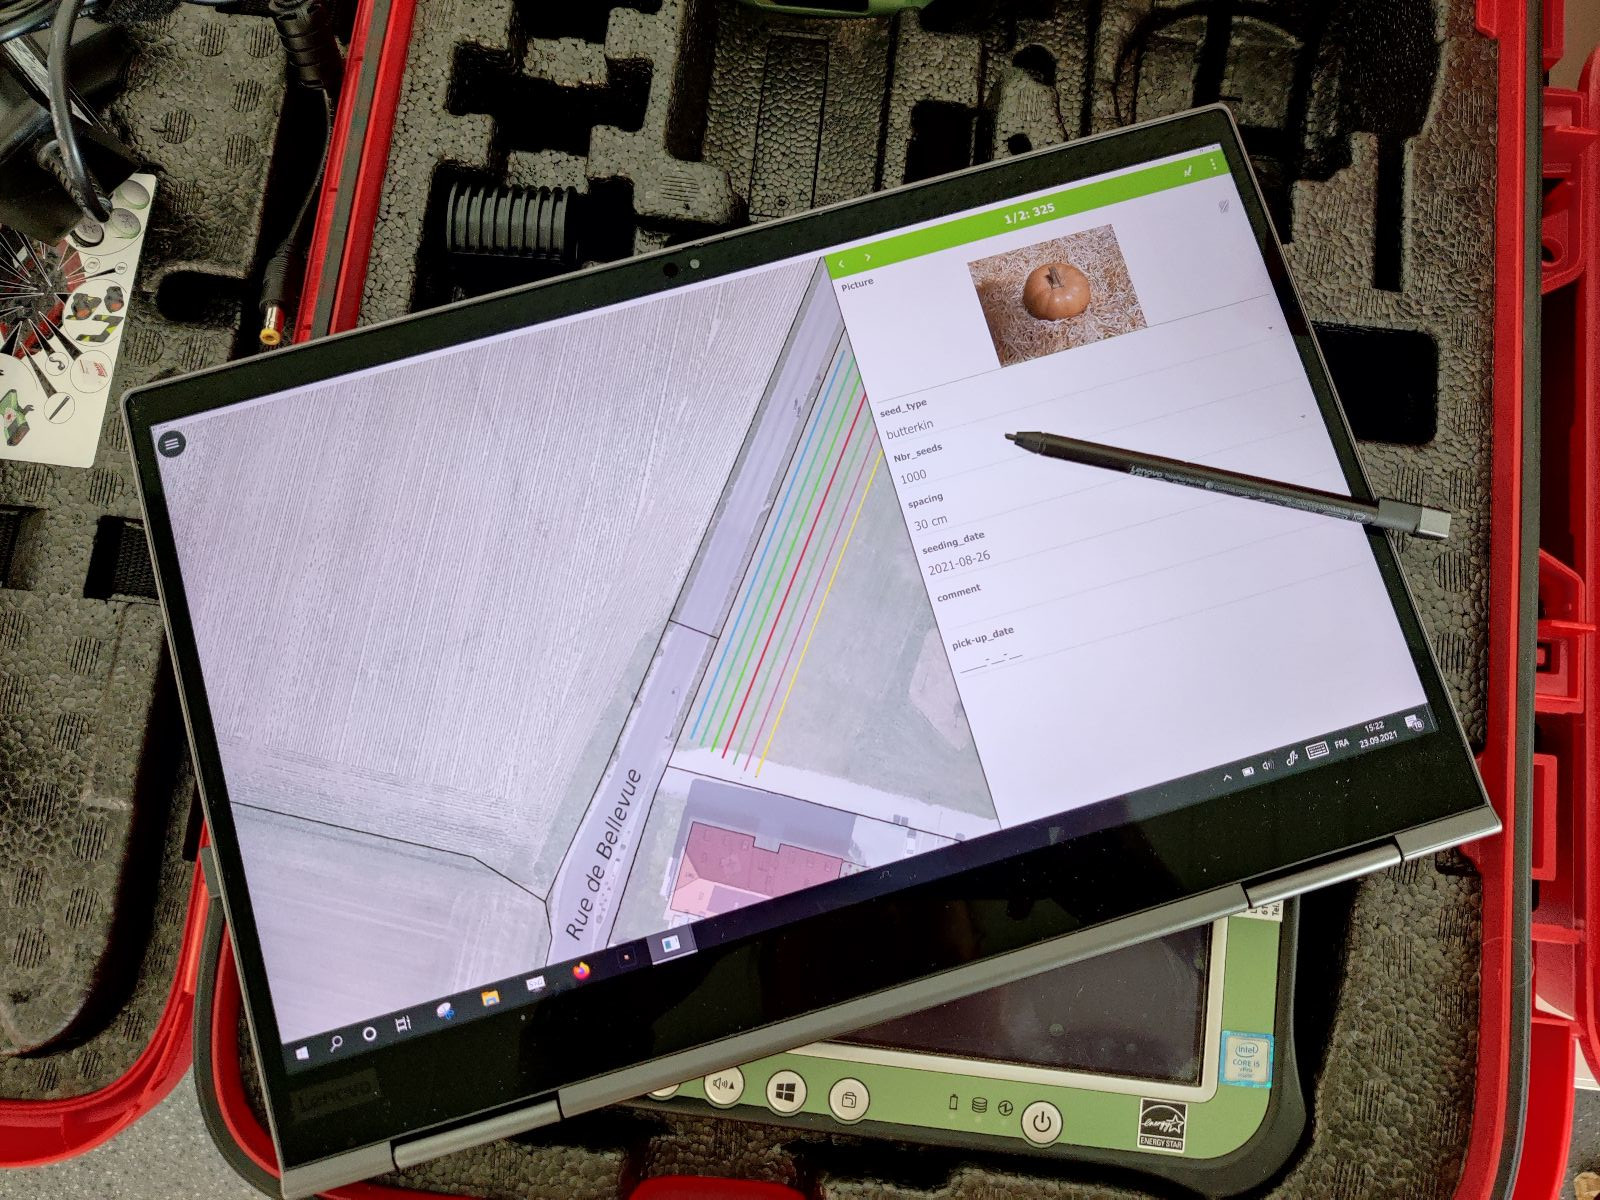
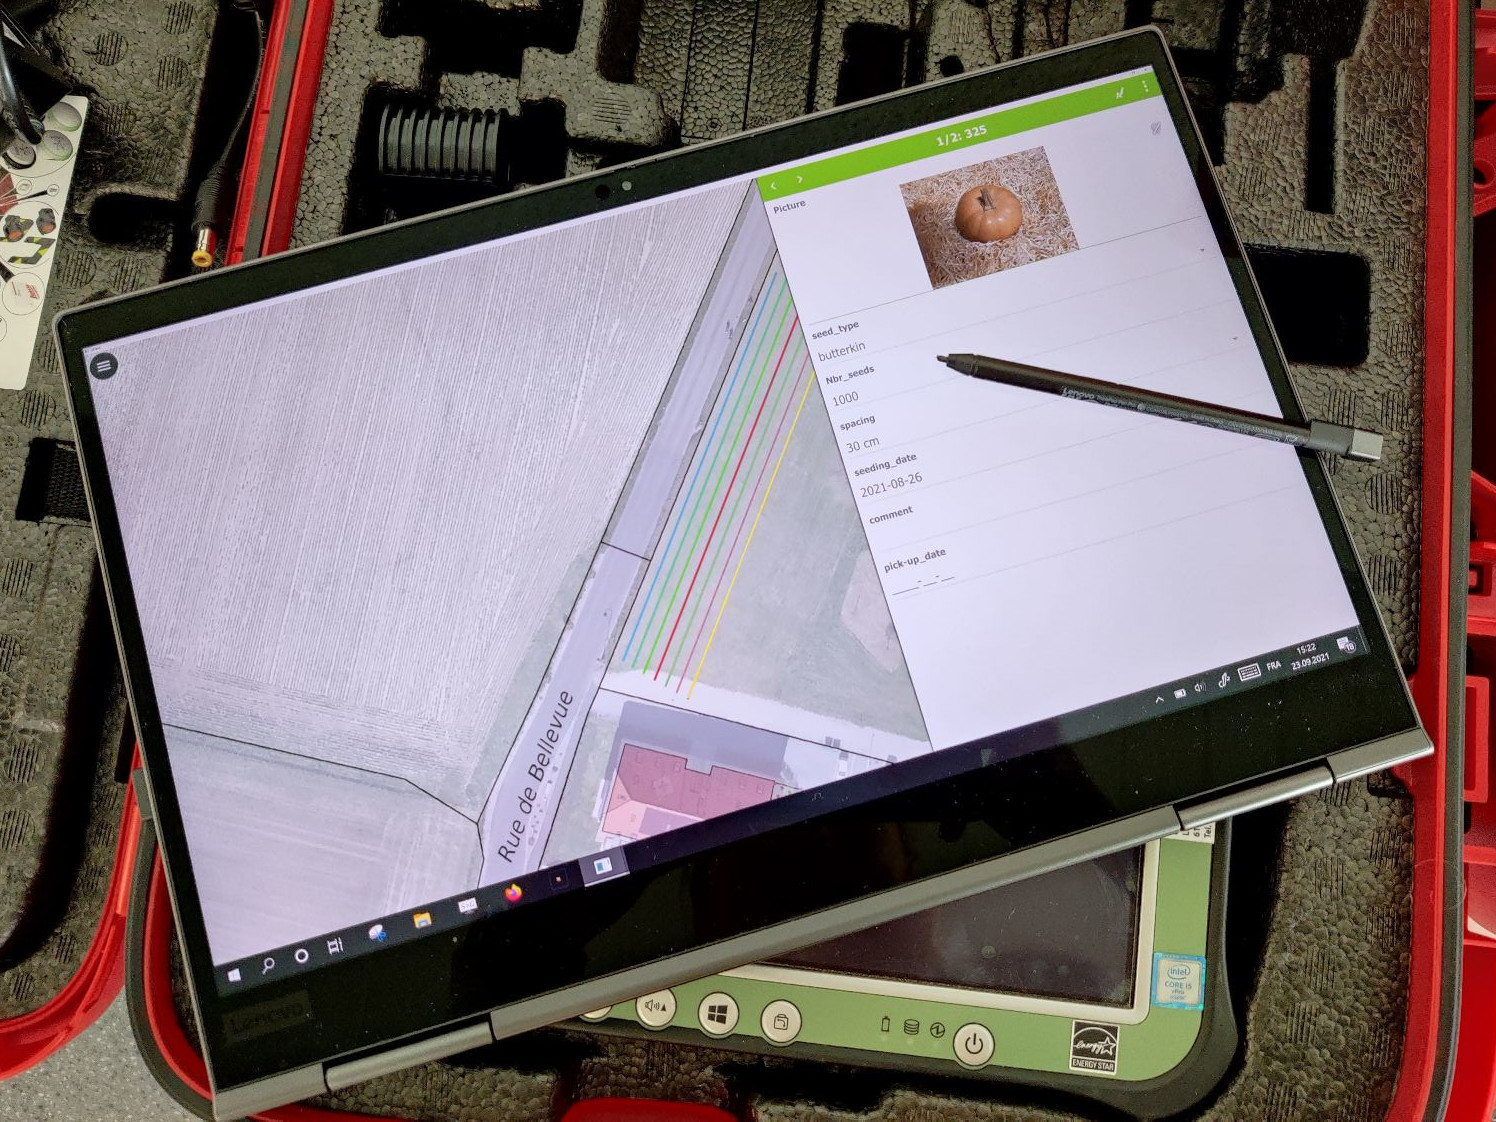
some updates

diff --git a/qfield/index.html b/qfield/index.html
@@ -119,15 +119,15 @@
     <blue_stroke>QFieldCloud</blue_stroke>
 </div>
 
-<div style="text-align: center;"><img src="images/windows.jpg">
+<div style="text-align: center;"><img src="images/windows_crop.jpg">
     <blue_stroke>QField&nbsp;on&nbsp;Windows</blue_stroke>
 </div>
 
-<div style="text-align: center;"><img src="images/iphone.jpg">
+<div style="text-align: center;"><img src="images/ipad_crop.jpg">
     <blue_stroke>QField&nbsp;on&nbsp;iOS</blue_stroke>
 </div>
 
-<div style="text-align: center;"><img src="images/iphone.jpg">
+<div style="text-align: center;"><img src="images/ipad_crop.jpg">
     <blue_stroke>qfield.org/get</blue_stroke>
 </div>
 

diff --git a/qfield/README.md b/qfield/README.md
@@ -31,7 +31,7 @@ And **all they want to be is efficient**. They want to **go home soon, packed wi
 
 ## What is QField
 
-The **missing bit on QGIS** is, that it's not mobile. And that's why QField is the ideal side-kick. It's **QGIS made for tablets**: And this means, it's made for the **efficient mobile data collection**.
+The **missing bit on QGIS** is, that it's not mobile. And that's why QField is the ideal side-kick. It's **QGIS made for tablets**: And this means, it's made for the **mobile data collection**.
 
 ```
 1.5 Min
@@ -43,8 +43,7 @@ The **missing bit on QGIS** is, that it's not mobile. And that's why QField is t
 
 First thing, is that we want to keep the UI **intuitive and simple**.
 
-Everytime when we want to introduce a new button, we have big discussions, if that button really needs to be there. Because **on the field you don't want fool around button** you don't need, just want to be efficient.
-
+Everytime when we want to introduce a new button, we have big discussions, if that button really needs to be there. Because **on the field you don't want fool around with an overloaded screen** with buttons you don't need.
 ### Beautiful cartography
 
 We want to allow people to use beautyful cartography.
@@ -61,7 +60,7 @@ We **just show the tools only, if they are really needed**.
 
 ### Efficient interaction
 
-And like I said - if you are out in the freezing wheater, you **want to be efficient**.
+And like I said - if you are out in the freezing wheater, you **want to be fast and effective**.
 
 So QField does provide the **functionalities for beeing so**. Like here in the background, you can **select mulitiple features**, and with the top right button you can **edit them all at the same time** - we will see a movie about it later on.
 *Another example is the **remember value function**. Means when you create a feature and enter an attribute value you want to keep for the next features as well, it's a simple checkbox activation to achieve that.*
